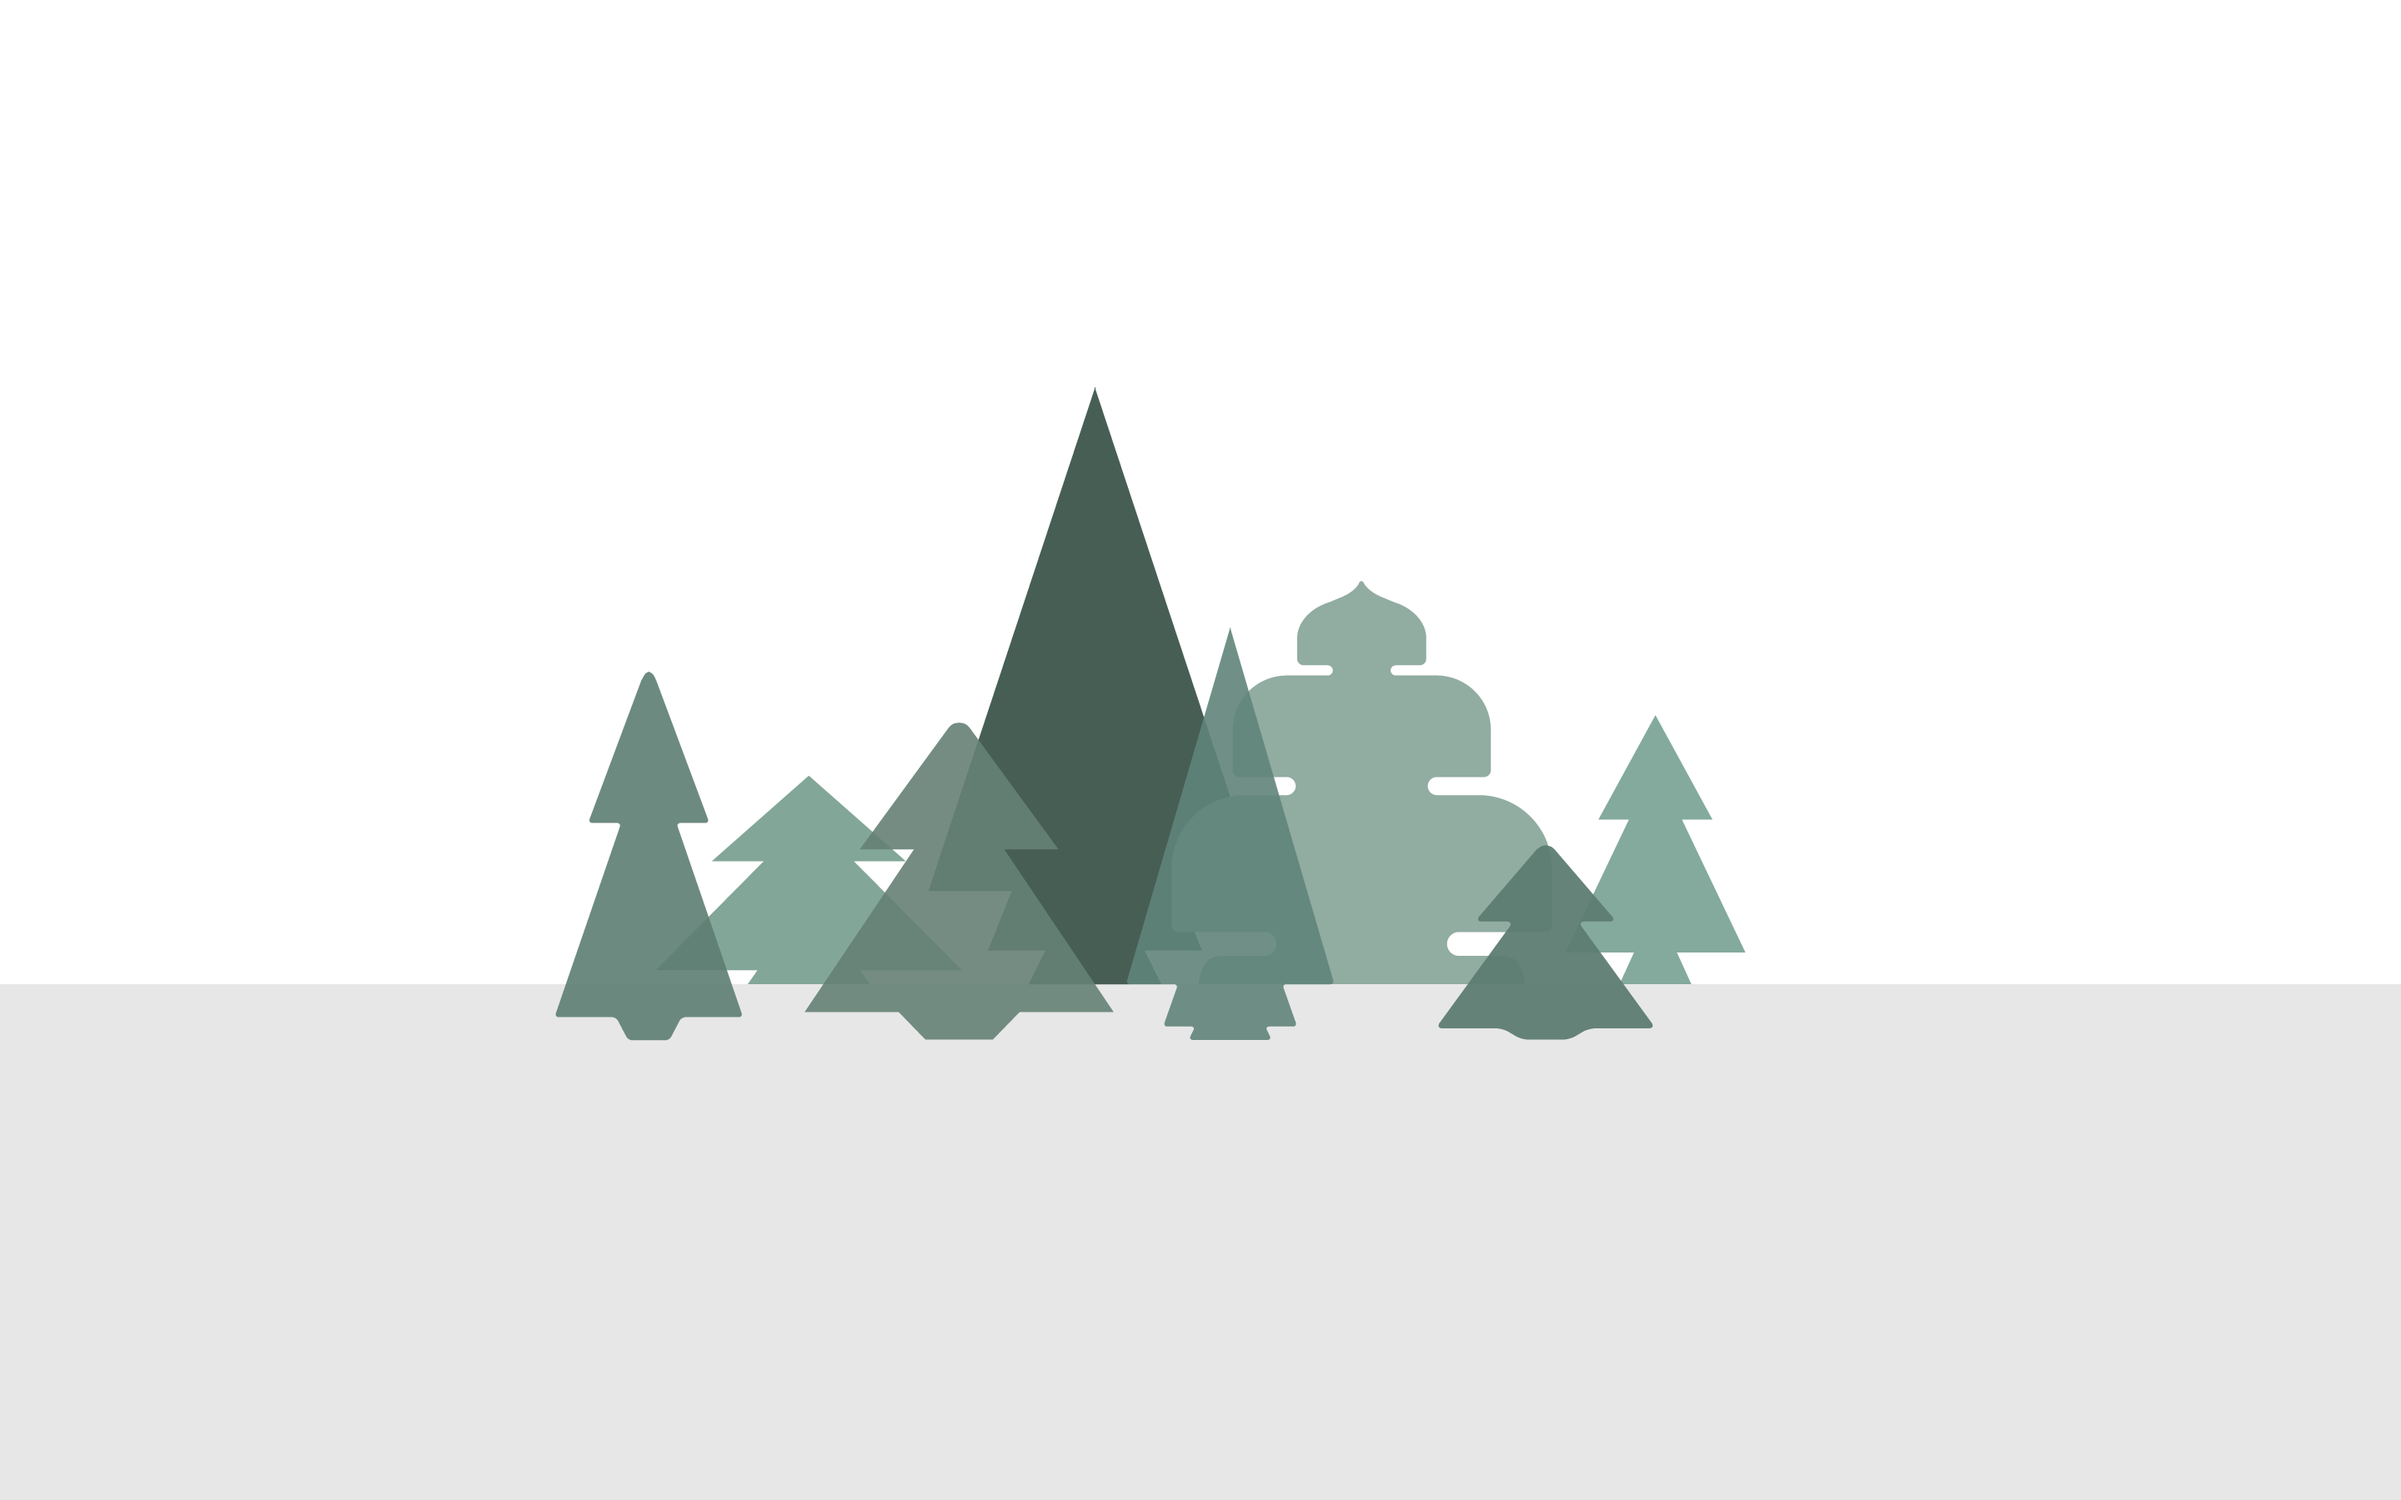
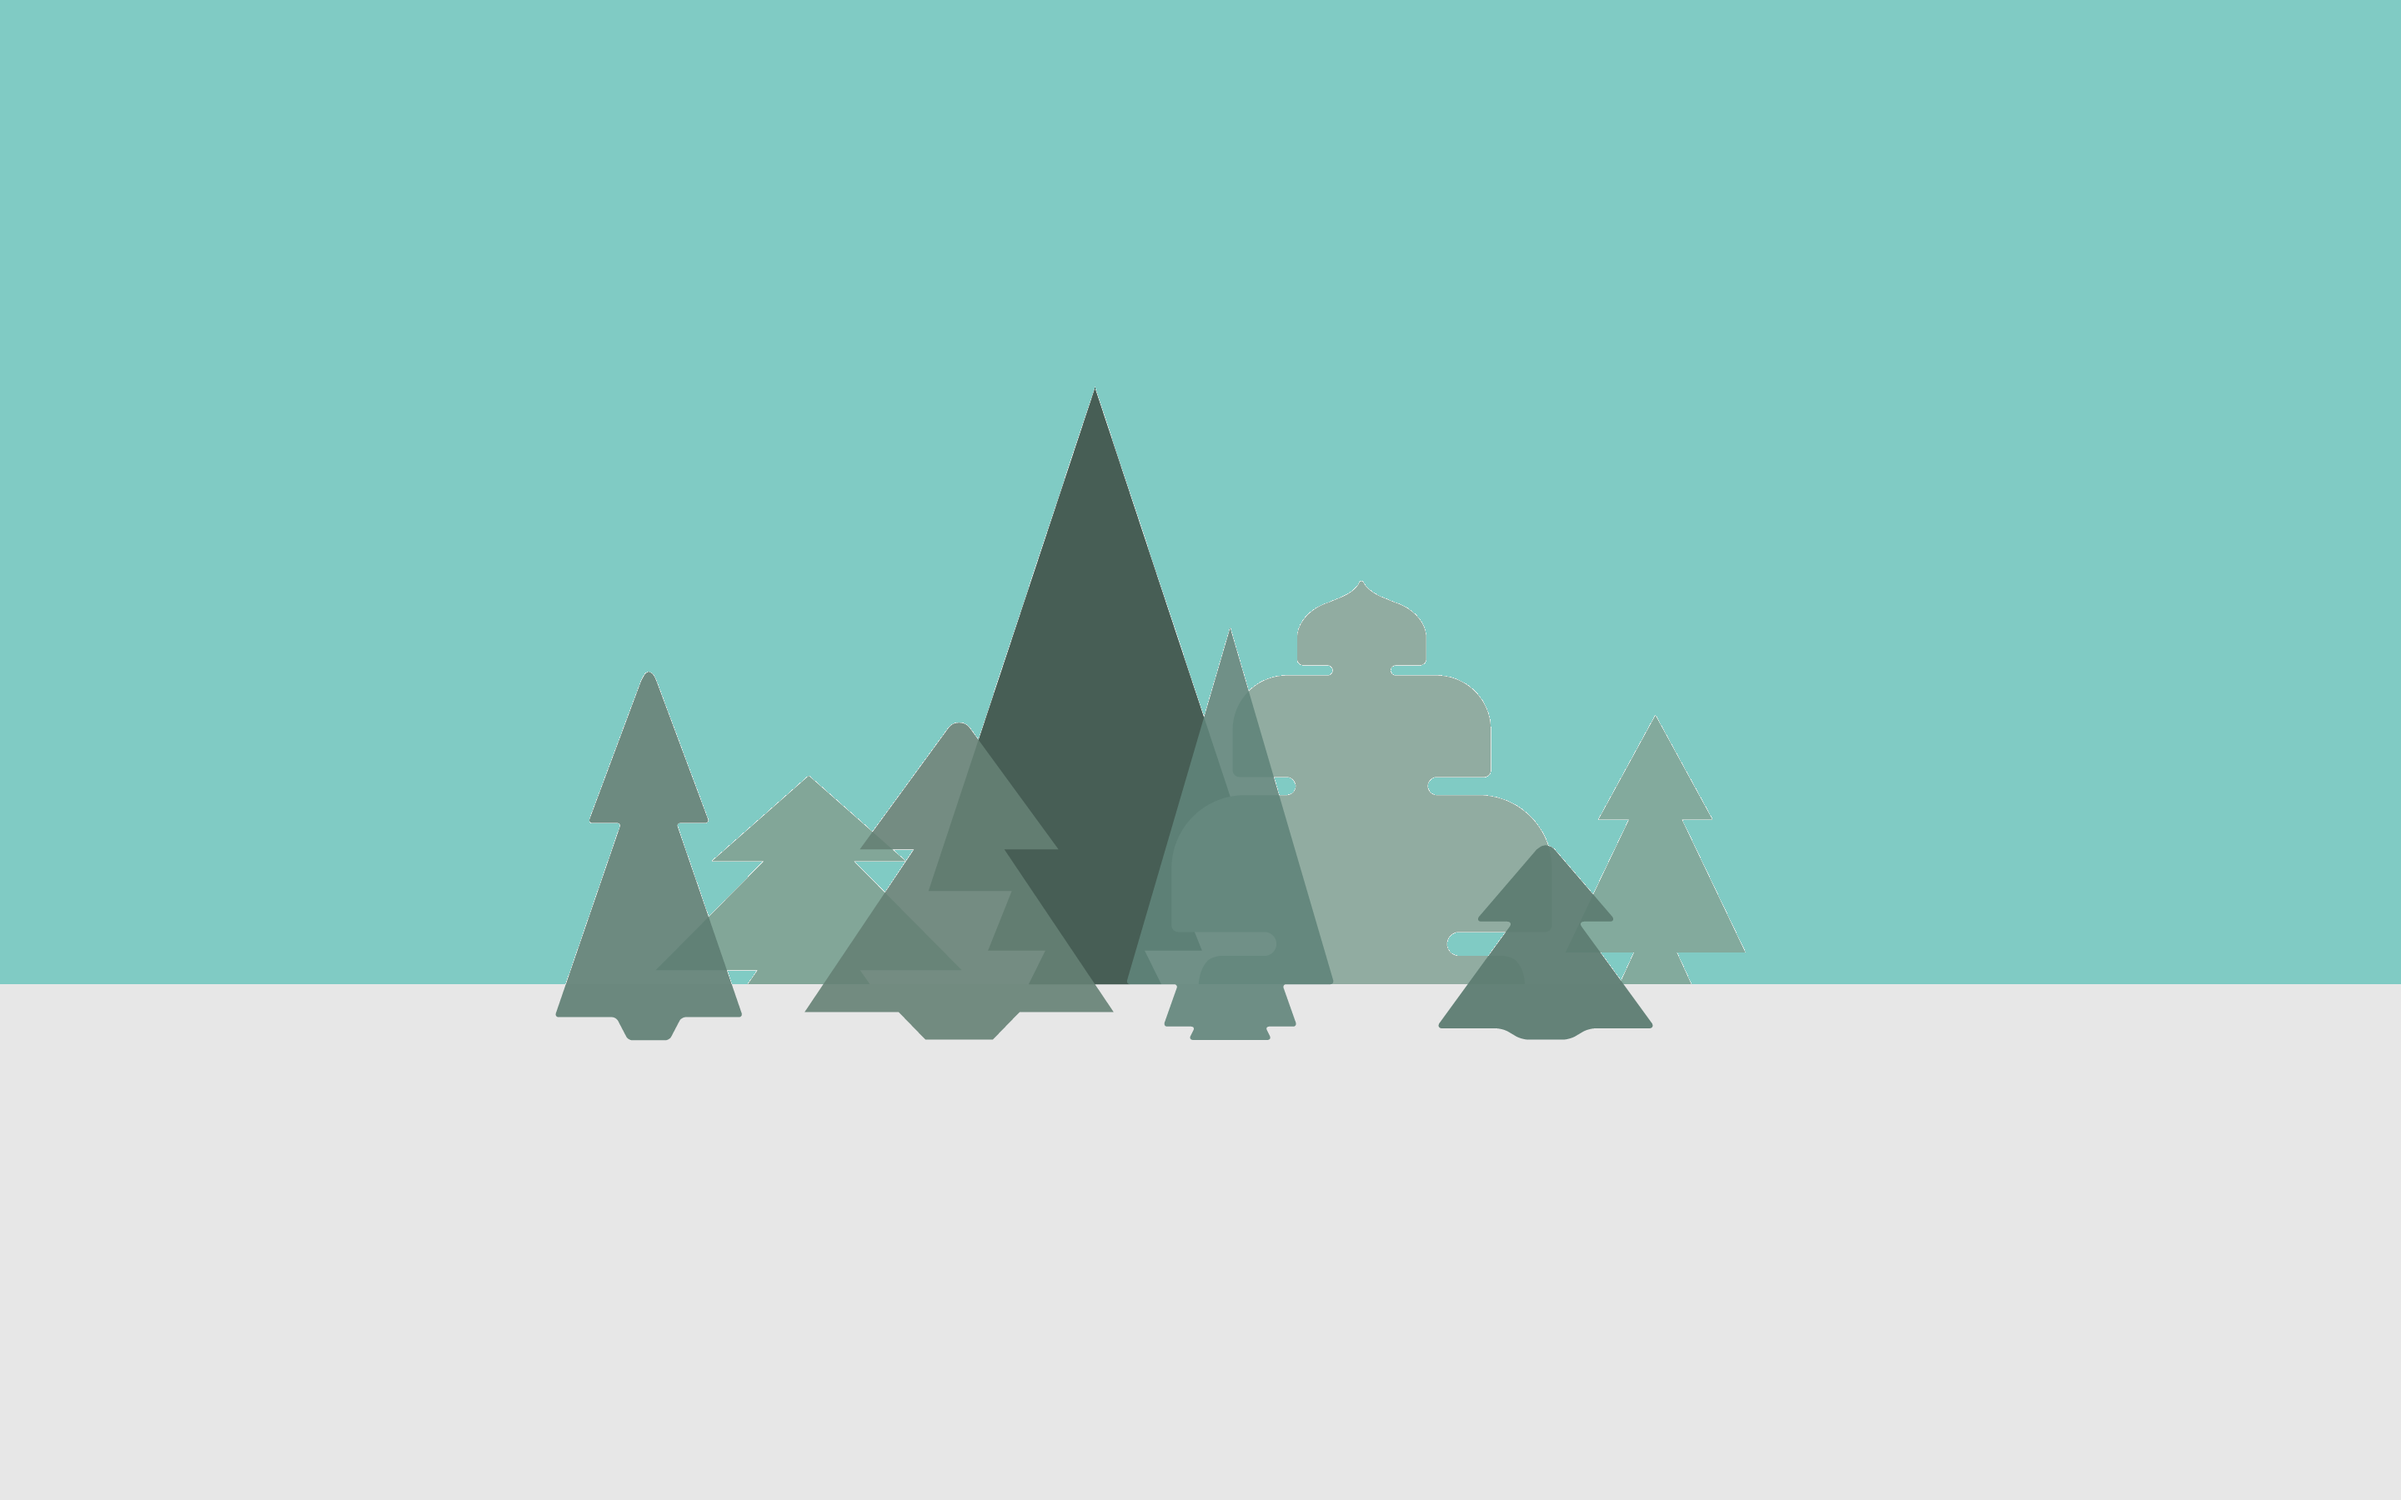
Add some features

diff --git a/www/index.html b/www/index.html
@@ -20,26 +20,24 @@
 </head>
 
 <body>
-    <!-- Status bar overlay for fullscreen mode-->
-    <div class="statusbar-overlay"></div>
     <!-- Panels Overlay -->
-  <div class="panel-overlay"></div>
-  <!-- Right panel with cover effect-->
+    <div class="panel-overlay"></div>
+    <!-- Right panel with cover effect-->
     <div class="panel panel-left panel-cover">
         <div class="panelCard">
-            <div class="card transparentbar1">
+            <div class="card">
             <div class="panelImage"><img src="lib/framework7/img/image1.png"></div>
                 <div class="panelListBlock">
                     <div class="list-block">
                         <ul>
                             <li>
-                                <a href="#" class="list-button item-link"><i class="icon material-icons md-dark">home</i><span class="panelWords">Home</span></a>
+                                <a href="index.html" class="list-button item-link close-panel no-animation"><i class="icon material-icons md-dark">home</i><span class="panelWords">Home</span></a>
                             </li>
                             <li>
-                                <a href="#" class="list-button item-link"><i class="icon material-icons md-dark">history</i><span class="panelWords">History</span></a>
+                                <a href="history.html" class="list-button item-link close-panel no-animation"><i class="icon material-icons md-dark">history</i><span class="panelWords">History</span></a>
                             </li>
                             <li>
-                                <a href="#" class="list-button item-link"><i class="icon material-icons md-dark">help_outline</i><span class="panelWords">About</span></a>
+                                <a href="about.html" class="list-button item-link close-panel no-animation"><i class="icon material-icons md-dark">help_outline</i><span class="panelWords">About</span></a>
                             </li>
                         </ul>
                     </div>
@@ -52,32 +50,28 @@
     <div class="views">
         <!-- Your main view, should have "view-main" class -->
         <div class="view view-main">
-            <!-- Pages container, because we use fixed navbar and toolbar, it has additional appropriate classes-->
-            <div class="pages navbar-fixed toolbar-fixed">
+            <!-- Pages container, because we use fixed navbar, it has additional appropriate classes-->
+            <div class="pages navbar-fixed">
 
             <div class="pages">
-                 <!-- set the navbar-->
-                <div class="navbar transparentbar">
-                    <div class="navbar-inner">
-                        <div class="left">
-                            <a href="#" class="link icon-only open-panel">
-                                <i class="icon icon-bars"></i>
-                            </a>
-                        </div>
-                        <div class="left"></div>
-                    </div>
-                </div>
                 <div class="page backGroundImage" data-page="index">
-
+                    <div class="navbar">
+                        <div class="navbar-inner">
+                            <div class="left">
+                                <a href="#" class="link icon-only open-panel">
+                                    <i class="icon icon-bars"></i>
+                                </a>
+                                Home
+                            </div>
+                        </div>
+                    </div>
                     <div class="page-content">
                         <div class="content-block">
-                            <div class="ai-logo" id="temp_delete"><img src="lib/framework7/img/ai-logo-2.png" width="230"></div>
-                            <div class="ai-logo"><img src="lib/framework7/img/ai-logo-1.png" width="180"></div>
-                            <p class="buttons-row">
-
-                            <a href="#" id="getPhoto" class="button button-raised button-big transparentbar" ><span value="Camera" span class="wordColor">Camera</span></a>
-                            <a href="#" id="openAlbum" class="button button-raised button-big transparentbar"><span class="wordColor">Gallery</span></a>
-                            </p>
+                            <div class="ai-logo hCenter"><img src="lib/framework7/img/ai-logo-1.png" width="180"></div>
+                            <div class="buttons-row twoButtons hCenter">
+                                <a href="#" id="getPhoto" class="button button-raised button-big bg-lime" ><span class="color-black">Camera</span></a>
+                                <a href="#" id="openAlbum" class="button button-raised button-big bg-lime"><span class="color-black">Gallery</span></a>
+                            </div>
                         </div>
                     </div>
                 </div>
@@ -86,16 +80,6 @@
     </div>
 
     <div class="popup-overlay"></div>
-    <div class="popup backgroundcolor">
-        <div class="page-content page-content-for-send">
-            <img id="imgShow" class="centerImage" />
-            <canvas id="myCanvas" class="centerImage"> </canvas>
-            <!-- TODO: Use the send icon instead of button -->
-            <a href="#" id="sendButton" class="button button-big button-fill button-raised color-white sendButton">
-                <span class="wordColor">Send</span>
-            </a>
-        </div>
-    </div>
 
     <script type="text/javascript"  src="cordova.js"></script>
     <script type="text/javascript"  src="lib/framework7/js/framework7.min.js"></script>

diff --git a/www/js/my-app.js b/www/js/my-app.js
@@ -3,6 +3,7 @@ document.addEventListener("deviceready", onDeviceReady, false);
 // Initialize app
 var myApp = new Framework7({
     swipePanel:'left',
+    swipePanelActiveArea: 24,
     material:true,
 });
 
@@ -20,11 +21,12 @@ function onDeviceReady() {
     //     mainView.router.back();
     // });
 
+    StatusBar.backgroundColorByHexString("#004D40");
 
     $$(document).on("click", "#getPhoto", function () {
 
         navigator.camera.getPicture(displayImage, errorCallback, {
-            quality: 50,
+            quality: 100,
             saveToPhotoAlbum: false, //added
             destinationType: Camera.DestinationType.FILE_URI,
             correctOrientation: true
@@ -44,7 +46,21 @@ function onDeviceReady() {
 
     function displayImage(fileUri) {
         // mainView.router.load({pageName: 'send'});
-        myApp.popup('.popup');
+        var popupHTML = '<div class="popup bg-black">' +
+                        '    <div class="page-content page-content-for-send">' +
+                        '        <img id="imgShow" class="imgShow hCenter vCenter" />' +
+                        '        <canvas id="myCanvas" class="myCanvas hCenter vCenter"> </canvas>' +
+                        '        <div href="#" class="close-popup">' +
+                        '            <i class="icon material-icons md-dark closeIcon">cancel</i>' +
+                        '        </div>' +
+                        '        <!-- TODO: Use the send icon instead of button -->' +
+                        '        <a href="#" id="sendButton" class="button button-big button-fill button-raised color-white sendButton  hCenter">' +
+                        '            <span class="color-black">Detect</span>' +
+                        '        </a>' +
+                        '    </div>' +
+                        '</div>';
+                        
+        myApp.popup(popupHTML);
         $$('#imgShow').attr('src', fileUri);
 
         $$('#sendButton').on("click", function() {
@@ -55,7 +71,6 @@ function onDeviceReady() {
     }
 
     function sendImage(fileUri) {
-        console.log("testt");
         window.resolveLocalFileSystemURL(
             fileUri,
             function (fileEntry) {
@@ -63,10 +78,9 @@ function onDeviceReady() {
                     var reader = new FileReader();
 
                     reader.onloadend = function() {
-                        console.log("testttttttt");
                         var blob = new Blob([new Uint8Array(this.result)], { type: "image/png" });
                         var oReq = new XMLHttpRequest();
-                        oReq.open("POST", "http://192.168.0.101:8000/img3/", true);
+                        oReq.open("POST", "http://10.176.66.155:8000/img3/", true);
 
                         oReq.onload = function (oEvent) {
                             showDetectionResult(oReq.response);
@@ -157,8 +171,6 @@ function onDeviceReady() {
             ctx.stroke();
         }
     }
-
-
 
     function errorCallback(err) {
         //uncomment for debugging.

diff --git a/www/css/styles.css b/www/css/styles.css
@@ -1,93 +1,73 @@
-#myCanvas {
-  z-index: 20;
+.myCanvas {
+    z-index: 20;
 }
 
-#imgShow {
-  max-width: 100%;
-  max-height: 100%;
-  z-index: 1;
-}
-
-.centerImage {
-  position: absolute;
-  margin: auto;
-  top: 0;
-  left: 0;
-  right: 0;
-  bottom: 0;
+.imgShow {
+    z-index: 1;
+    max-width: 100%;
+    max-height: 100%;
 }
 
 .sendButton {
-  z-index: 40;
-  position: fixed;
-  bottom: 5%;
-  width: 20%;
-  left: 40%;
+    bottom: 10%;
+    z-index: 40;
+    width: 20%;
 }
 
 .panelCard .card {
-  margin: 0;
-  box-shadow: 0 0 0 rgba(0,0,0,.12), 0 0 0 rgba(0,0,0,.24);
+    margin: 0;
+    box-shadow: 0 0 0 rgba(0, 0, 0, .12), 0 0 0 rgba(0, 0, 0, .24);
 }
 
 .panelImage img {
-  width: 100%;
-  opacity: 0.7;
+    width: 100%;
 }
 
 .panelListBlock .list-block {
-  margin: 0 0;
+    margin: 0 0;
 }
 
-.backGroundImage{
-	background-image: url(../lib/framework7/img/background.jpg);
-  background-size: cover;
-}
-
-.backgroundcolor{
-  background-color: black;
-}
-
-.ai-logo{
-  text-align: center;
-}
-
-.panelWords {
-  	position: relative;
-  	left: 7%;
-}
-
-.buttons-row {
-	  position: relative;
-    top: 20%;
-    margin-top: 45%;
-}
-
-.transparentbar {
-  background: rgba(247, 247, 248, 0.55)
-}
-
-.transparentbar1 {
-  background: rgba(247, 247, 248, 0)
-}
-
-.transparentbar2 {
-  background: rgba(247, 247, 248, 0.7)
-}
-
-
-.ai-logo {
-  margin-top: 20%;
+.backGroundImage {
+    /*	background-image: url(../lib/framework7/img/background.jpg);*/
+    background-size: cover;
+    background-color: #26A69A;
 }
 
 .navbar {
-  height: 50px;
+    background-color: #00796B;
 }
 
-.wordColor {
-  color: gray;
+.twoButtons {
+    width: 85%;
+    bottom: 15%;
 }
 
-.pages .page .page-content{
-  padding-top: 20%;
+.closeIcon {
+    position: fixed !important;
+    right: 6%;
+    top: 4%;
+    z-index: 40;
+    color: rgba(255, 255, 255, 0.6) !important;
+    font-size: 30px;
+}
+
+.hCenter {
+    position: fixed;
+    left: 50%;
+    transform: translateX(-50%);
+}
+
+/* .vCenter {
+    position: fixed;
+    top: 50%;
+    transform: translateY(-50%);
+} */
+
+.ai-logo {
+    top: 25%;
+}
+
+.panelWords {
+    position: relative;
+    left: 7%;
 }

diff --git a/www/history.html b/www/history.html
@@ -1,0 +1,12 @@
+<div class="page" data-page="history">
+    <div class="navbar">
+        <div class="navbar-inner">
+            <div class="left">
+                <a href="#" class="link icon-only open-panel">
+                    <i class="icon icon-bars"></i>
+                </a>
+                History
+            </div>
+        </div>
+    </div>
+</div>

diff --git a/www/about.html b/www/about.html
@@ -1,0 +1,12 @@
+<div class="page" data-page="about">
+    <div class="navbar">
+        <div class="navbar-inner">
+            <div class="left">
+                <a href="#" class="link icon-only open-panel">
+                    <i class="icon icon-bars"></i>
+                </a>
+                About
+            </div>
+        </div>
+    </div>
+</div>
